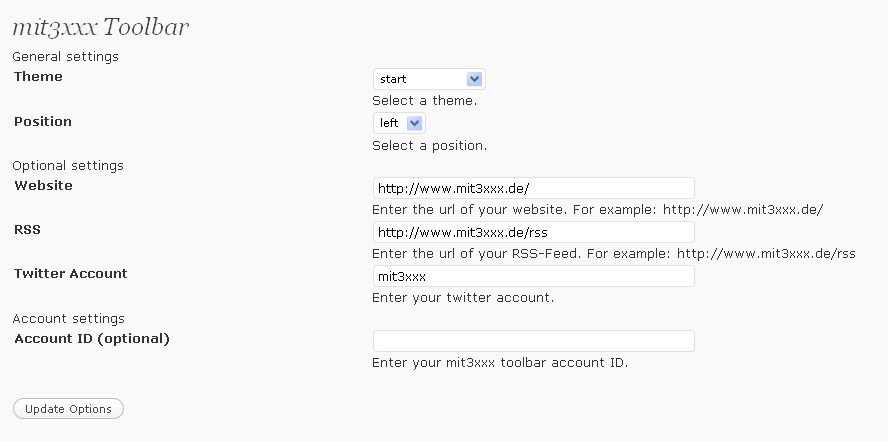
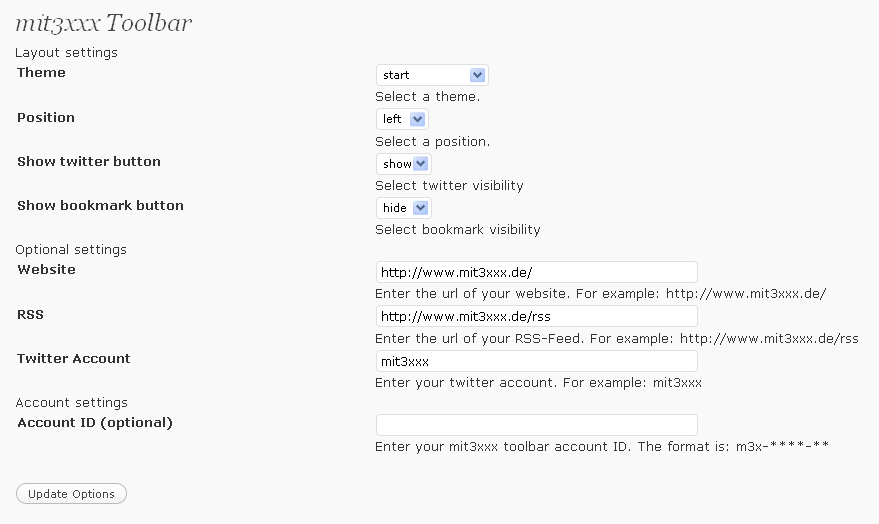
Release 2.2 enable Buttons
git-svn-id: https://plugins.svn.wordpress.org/mit3xxxde-toolbar/trunk@157566 b8457f37-d9ea-0310-8a92-e5e31aec5664

diff --git a/mit3xxx-toolbar.php b/mit3xxx-toolbar.php
@@ -21,7 +21,7 @@ Plugin Name: Mit3xxx Toolbar
 Plugin URI: http://wordpress.org/extend/plugins/mit3xxxde-toolbar
 Description: The mit3xxx toolbar allows you to add the following features to your site: * navigate to the start page * integrate a button to your rss-feed * let your users tweet your content * let your users share your content to social network sites such as Delicious, Digg, Facebook, and more social bookmarking and sharing sites * Provides more then 20 themes
 Author: The mit3xxx.de Team
-Version: 2.1
+Version: 2.2
 Author URI: http://www.mit3xxx.de/
 */
 
@@ -37,7 +37,9 @@ if ('insert' == $HTTP_POST_VARS['action']) {
     update_option("mit3xxx_toolbar_rss",$HTTP_POST_VARS['mit3xxx_toolbar_rss']);
     update_option("mit3xxx_toolbar_theme",$HTTP_POST_VARS['mit3xxx_toolbar_theme']);
     update_option("mit3xxx_toolbar_position",$HTTP_POST_VARS['mit3xxx_toolbar_position']);
-    update_option("mit3xxx_toolbar_twitter_account",$HTTP_POST_VARS['mit3xxx_toolbar_twitter_account']);
+    update_option("mit3xxx_toolbar_twitter_account",$HTTP_POST_VARS['mit3xxx_toolbar_twitter_account']); 
+    update_option("mit3xxx_toolbar_show_twitter",$HTTP_POST_VARS['mit3xxx_toolbar_show_twitter']);
+    update_option("mit3xxx_toolbar_show_bookmarks",$HTTP_POST_VARS['mit3xxx_toolbar_show_bookmarks']);
 }
 
 
@@ -53,6 +55,12 @@ function mit3xxx_toolbar_option_page() {
 
     $mit3xxx_toolbar_position = get_option("mit3xxx_toolbar_position", "left");
     $positions = array('left', 'right');
+
+    $mit3xxx_toolbar_show_twitter = get_option("mit3xxx_toolbar_show_twitter", "show");
+    $showTwitter = array('show', 'hide');
+
+    $mit3xxx_toolbar_show_bookmarks = get_option("mit3xxx_toolbar_show_bookmarks", "show");
+    $showBookmarks = array('show', 'hide');
     
     ?>
     <div class="wrap">
@@ -60,11 +68,94 @@ function mit3xxx_toolbar_option_page() {
       <form name="form1" method="post" action="<?php echo $location; ?>">
         <h2>mit3xxx Toolbar</h2>
         
+        <fieldset class="options" name="general">
+        <legend>Layout settings</legend>
+        <table width="100%" cellspacing="2" cellpadding="5" class="editform">
+
+        <tr>
+          <th nowrap valign="top" align="left" width="33%">Theme</th>
+          <td>
+        <select name="mit3xxx_toolbar_theme">   
+<?php 
+foreach ($themes as $theme) {
+    if ($mit3xxx_toolbar_theme == $theme) {
+        echo "<option value='" . $theme . "' selected='selected'>" . $theme . "</option>";
+    }
+    else {
+        echo "<option value='" . $theme . "'>" . $theme . "</option>";
+    }
+}
+?>
+        </select>
+            <br />Select a theme.
+          </td>
+        </tr>
+        
+        <tr>
+          <th nowrap valign="top" align="left" width="33%">Position</th>
+          <td>
+
+        <select name="mit3xxx_toolbar_position">    
+<?php 
+foreach ($positions as $position) {
+    if ($mit3xxx_toolbar_position == $position) {
+        echo "<option value='" . $position . "' selected='selected'>" . $position . "</option>";
+    }
+    else {
+        echo "<option value='" . $position . "'>" . $position . "</option>";
+    }
+}
+?>
+        </select>
+            <br />Select a position.
+          </td>
+        </tr>
+
+        <tr>
+          <th nowrap valign="top" align="left" width="33%">Show twitter button</th>
+          <td>
+            <select name="mit3xxx_toolbar_show_twitter">                      
+<?php 
+foreach ($showTwitter as $show) {
+    if ($mit3xxx_toolbar_show_twitter == $show) {
+        echo "<option value='" . $show . "' selected='selected'>" . $show . "</option>";
+    }
+    else {
+        echo "<option value='" . $show . "'>" . $show . "</option>";
+    }
+}
+?>
+            </select>
+            <br />Select twitter visibility
+          </td>
+        </tr>
+
+        <tr>
+          <th nowrap valign="top" align="left" width="33%">Show bookmark button</th>
+          <td>
+            <select name="mit3xxx_toolbar_show_bookmarks">                     
+<?php 
+foreach ($showBookmarks as $show) {
+    if ($mit3xxx_toolbar_show_bookmarks == $show) {
+        echo "<option value='" . $show . "' selected='selected'>" . $show . "</option>";
+    }
+    else {
+        echo "<option value='" . $show . "'>" . $show . "</option>";
+    }
+}
+?>
+            </select>
+            <br />Select bookmark visibility
+          </td>
+        </tr>
+
+       </table>
+       </fieldset>
+
 
         <fieldset class="options" name="optional">
         <legend>Optional settings</legend>
         <table width="100%" cellspacing="2" cellpadding="5" class="editform">
-
 
         <tr>
           <th nowrap valign="top" align="left" width="33%">Website</th>
@@ -91,60 +182,8 @@ function mit3xxx_toolbar_option_page() {
         </tr>
         </table>
         </fieldset>
-
-
-
-
         
         
-        <fieldset class="options" name="general">
-        <legend>General settings</legend>
-        <table width="100%" cellspacing="2" cellpadding="5" class="editform">
-
-        
-
-
-        <tr>
-          <th nowrap valign="top" align="left" width="33%">Theme</th>
-          <td>
-        <select name="mit3xxx_toolbar_theme">   
-<?php 
-foreach ($themes as $theme) {
-    if ($mit3xxx_toolbar_theme == $theme) {
-        echo "<option value='" . $theme . "' selected='selected'>" . $theme . "</option>";
-    }
-    else {
-        echo "<option value='" . $theme . "'>" . $theme . "</option>";
-    }
-}
-?>
-        </select>
-            <br />Select a theme.
-          </td>
-        </tr>
-        
-        <tr>
-          <th nowrap valign="top" align="left" width="33%">Position</th>
-          <td>
-
-        <select name="mit3xxx_toolbar_position">     
-<?php 
-foreach ($positions as $position) {
-    if ($mit3xxx_toolbar_position == $position) {
-        echo "<option value='" . $position . "' selected='selected'>" . $position . "</option>";
-    }
-    else {
-        echo "<option value='" . $position . "'>" . $position . "</option>";
-    }
-}
-?>
-        </select>
-            <br />Select a position.
-          </td>
-        </tr>
-
-       </table>
-       </fieldset>
 
 
         <fieldset class="options" name="account">
@@ -211,18 +250,41 @@ function mit3xxx_getRss() {
     return $sResult;
 }
 
+function mit3xxx_getShowTwitter() {
+    $bResult = 'true';
+    $show = get_option("mit3xxx_toolbar_show_twitter", "show");
+    if ("show" != $show) {        
+        $bResult = 'false';
+    }
+    return $bResult;
+}
+
+function mit3xxx_getShowBookmarks() {
+    $bResult = 'true';
+    $show = get_option("mit3xxx_toolbar_show_bookmarks", "show");
+    if ("show" != $show) {        
+        $bResult = 'false';
+    }    
+    return $bResult;
+}
+
 function mit3xxx_getTwitterAccount() {
     $sResult = get_option("mit3xxx_toolbar_twitter_account", "");
     return $sResult;
 }
 
 function mit3xxx_toolbar_footer($content) {
-    $account = mit3xxx_getAccount();
+    
+    $theme = get_option("mit3xxx_toolbar_theme", "start");
+    $position = get_option("mit3xxx_toolbar_position", "left");    
+    $showTwitter = mit3xxx_getShowTwitter();
+    $showBookmarks = mit3xxx_getShowBookmarks();
+    
     $website = mit3xxx_getWebsite();
     $rss = mit3xxx_getRss();
     $twitter_account = mit3xxx_getTwitterAccount();
-    $theme = get_option("mit3xxx_toolbar_theme", "start");
-    $position = get_option("mit3xxx_toolbar_position", "left");
+    
+    $account = mit3xxx_getAccount();
     
     $codesnippet = '
 <div id="mit3xxx_toolbar" class="mit3xxx_toolbar">
@@ -234,24 +296,31 @@ function mit3xxx_toolbar_footer($content) {
 //<![CDATA[
 mit3xxxToolbarOptions = {};
 mit3xxxToolbarOptions.source = "wordpress";
-mit3xxxToolbarOptions.version = "3-0";
+mit3xxxToolbarOptions.version = "2.2";
+mit3xxxToolbarOptions.theme = "#THEME#";
+mit3xxxToolbarOptions.position = "#POSITION#";
+mit3xxxToolbarOptions.show_twitter = #SHOW_TWITTER#;
+mit3xxxToolbarOptions.show_bookmarks = #SHOW_BOOKMARKS#;
+
 mit3xxxToolbarOptions.homepage = "#WEBSITE#";
 mit3xxxToolbarOptions.rss = "#RSS#";
-mit3xxxToolbarOptions.theme = "#THEME#";
 mit3xxxToolbarOptions.twitter_account = "#TWITTER_ACCOUNT#";
-mit3xxxToolbarOptions.position = "#POSITION#";
 mit3xxxToolbarOptions.account = "#ACCOUNT#";
 //]]>
 </script>
 <script src="http://toolbar.mit3xxx.de/static/js/m3x-toolbar.js" type="text/javascript"></script>
 ';
     
-    $codesnippet = str_replace('#ACCOUNT#', $account, $codesnippet);
+    $codesnippet = str_replace('#THEME#', $theme, $codesnippet);
+    $codesnippet = str_replace('#POSITION#', $position, $codesnippet);    
+    $codesnippet = str_replace('#SHOW_TWITTER#', $showTwitter, $codesnippet);
+    $codesnippet = str_replace('#SHOW_BOOKMARKS#', $showBookmarks, $codesnippet);
+    
     $codesnippet = str_replace('#WEBSITE#', $website, $codesnippet);
     $codesnippet = str_replace('#RSS#', $rss, $codesnippet);
     $codesnippet = str_replace('#TWITTER_ACCOUNT#', $twitter_account, $codesnippet);
-    $codesnippet = str_replace('#POSITION#', $position, $codesnippet);
-    $codesnippet = str_replace('#THEME#', $theme, $codesnippet);
+    $codesnippet = str_replace('#ACCOUNT#', $account, $codesnippet);
+    
 
     echo $codesnippet;
     
